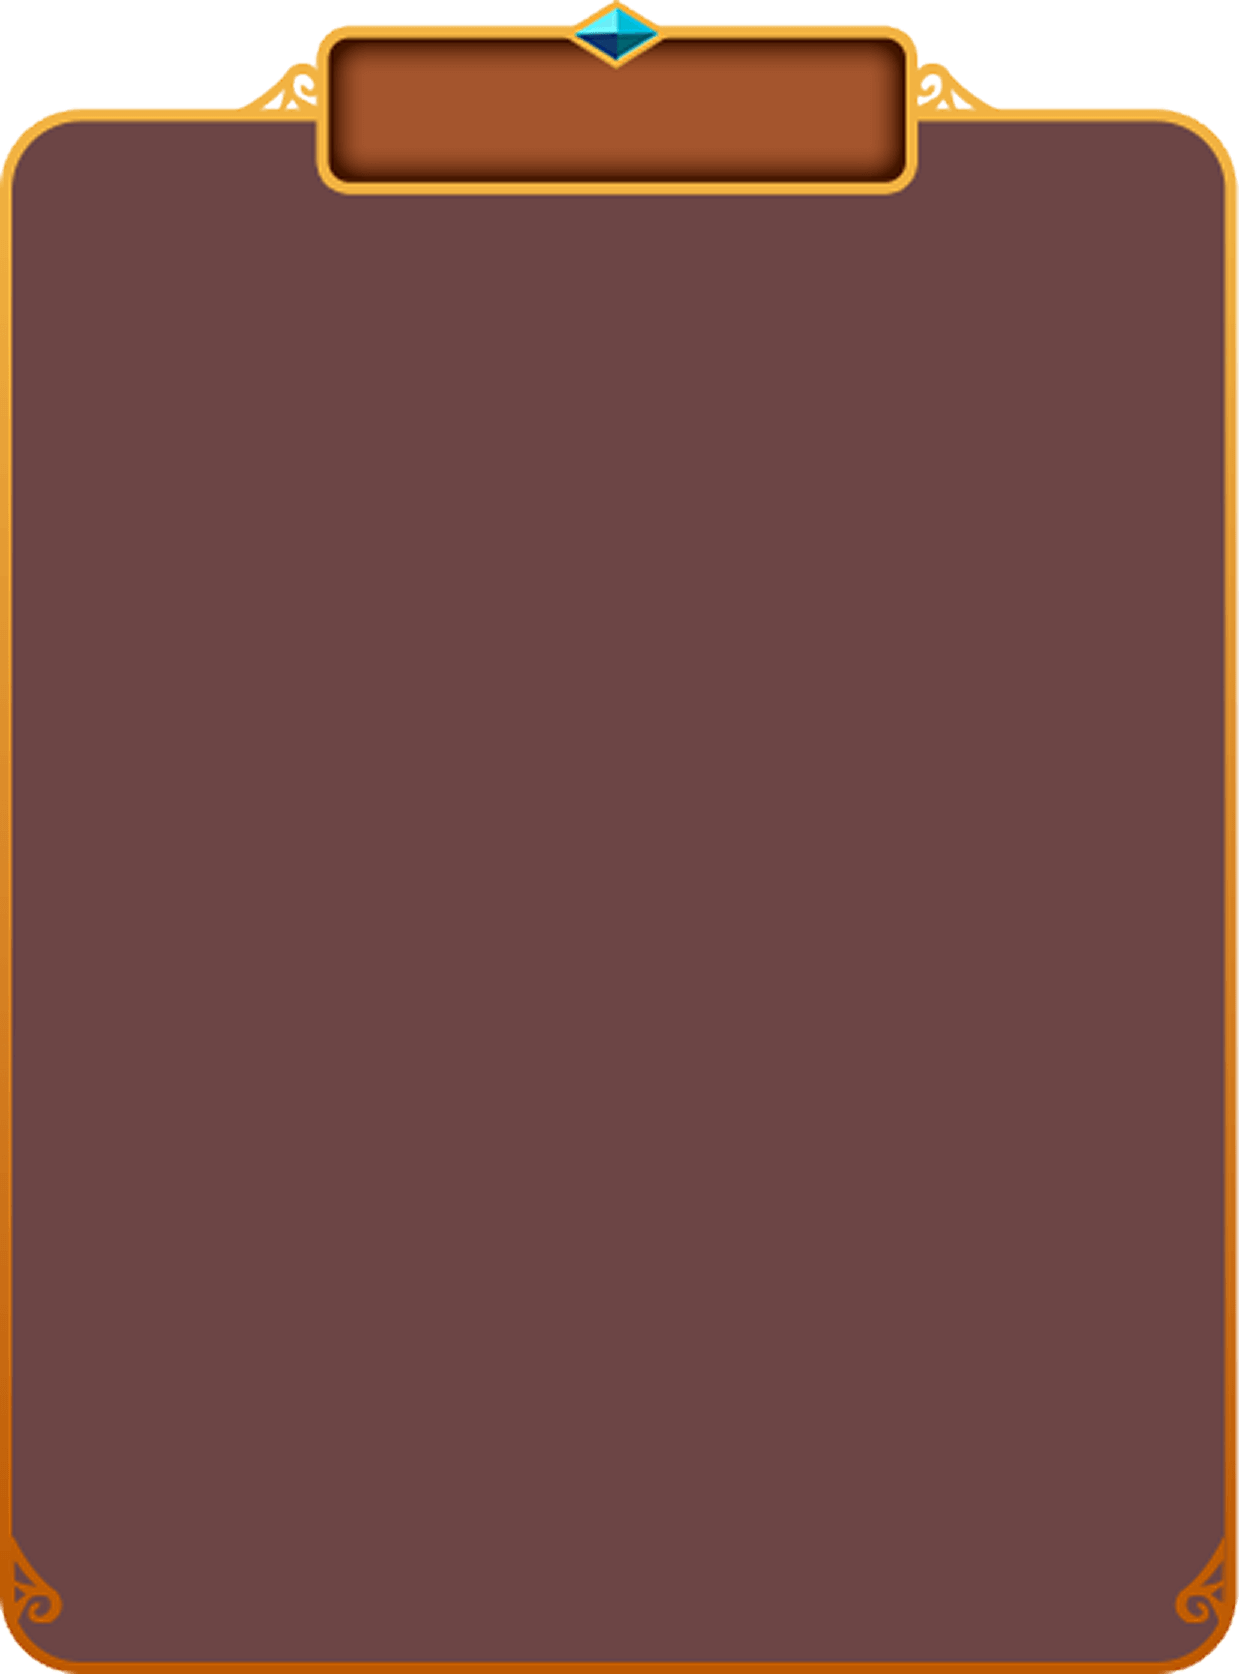
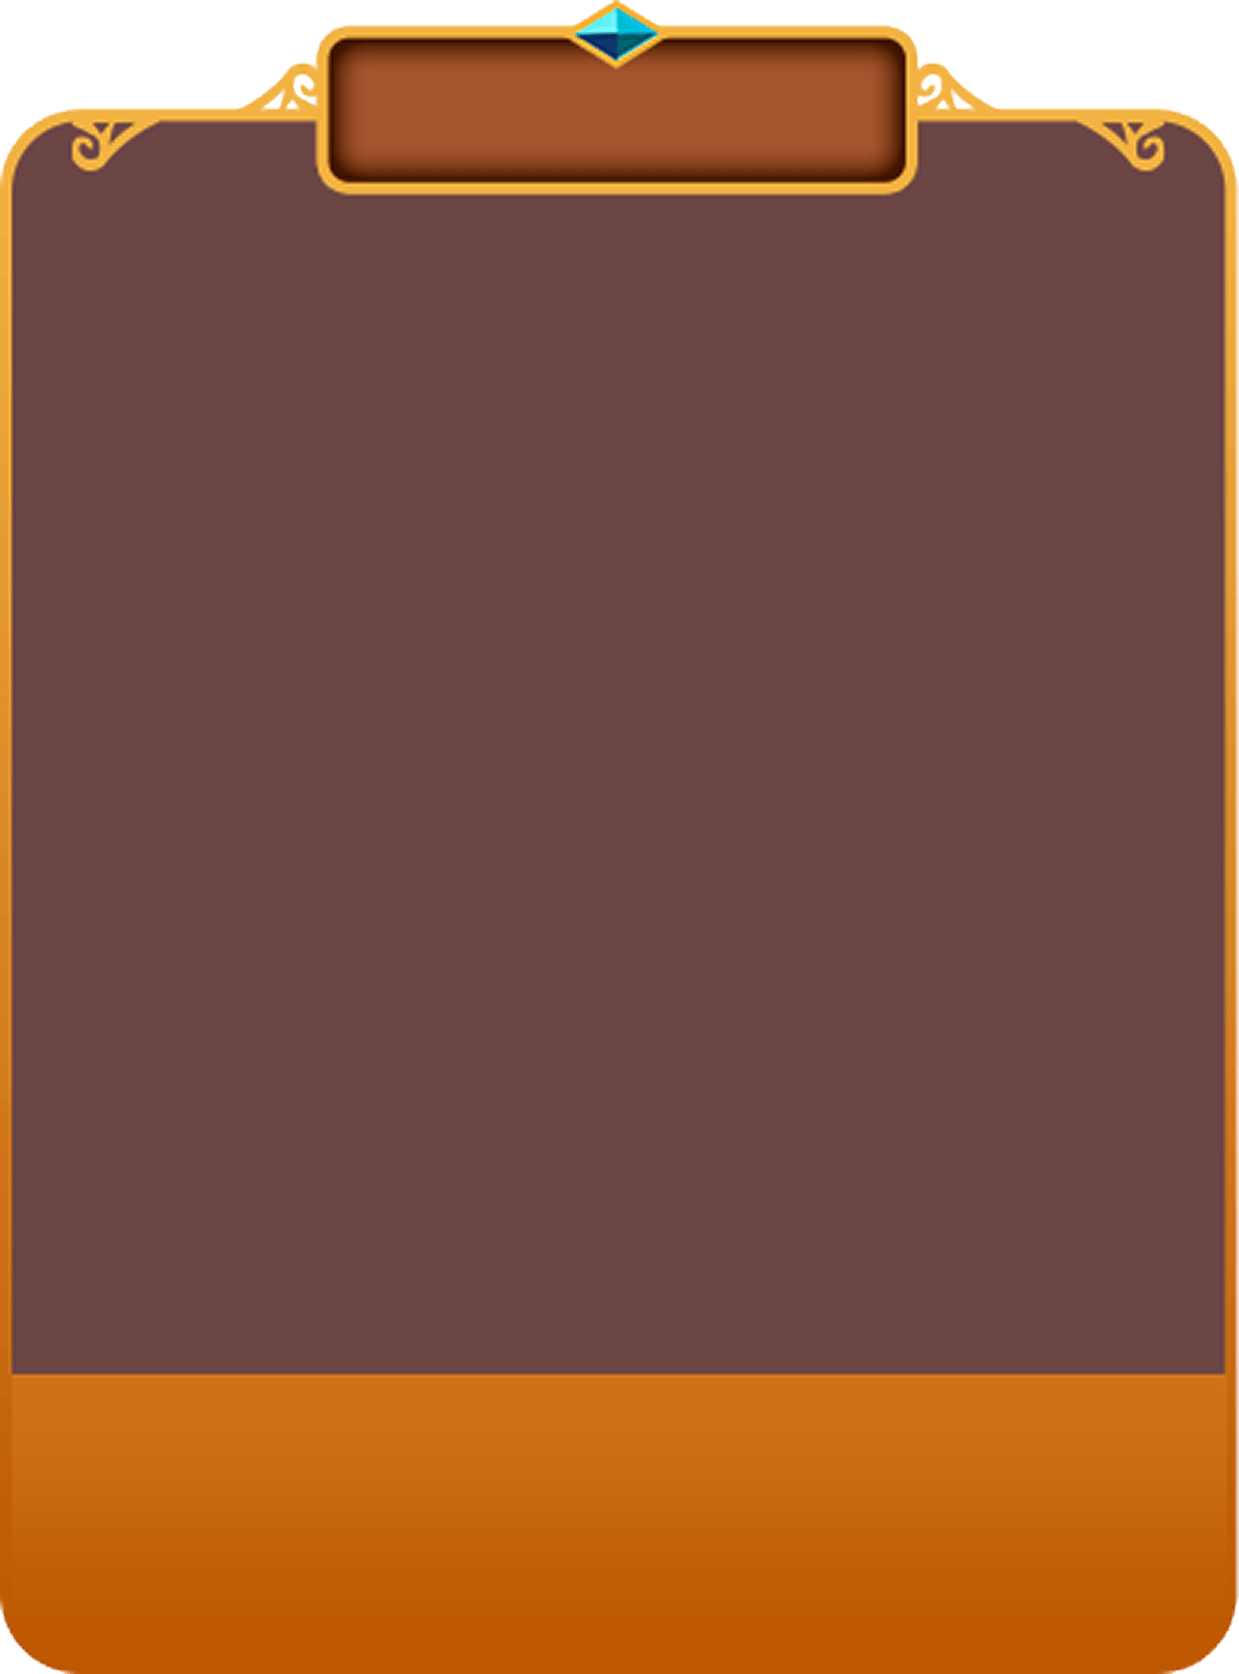
Update: update ui to Leaderboard.tsx

Changed region(s): [[0.0, 0.8076, 1.0, 0.994], [0.8588, 0.0621, 0.9508, 0.1243], [0.0613, 0.0621, 0.1227, 0.1243]]

diff --git a/src/pages/HomePage/Leaderboard.tsx b/src/pages/HomePage/Leaderboard.tsx
@@ -44,6 +44,34 @@ const Leaderboard: React.FC = () => {
       .map((item, idx) => ({ ...item, rank: idx + 1 }))
   }, [data, userCardsFormationScore, userInfo])
 
+  const renderCurrentUserRank = () => {
+    if (!userInfo) return null
+    const item = leaderboardData.find((item) => item.name === userInfo.email)
+    if (!item) return null
+    let rankContent: React.ReactNode
+    if (item.rank <= 3) {
+      rankContent = (
+        <div className={classNames(styles.rankContent, styles[`rank${item.rank}`])}></div>
+      )
+    } else {
+      rankContent = item.rank
+    }
+    return (
+      <div className={classNames(styles.leaderboardCurrentUserBar)}>
+        <div className={styles.leaderboardRankContainer}>{rankContent}</div>
+        <div className={styles.leaderboardInfo}>
+          <img alt={'user_avatar'} src={item.avatar} className={styles.leaderboardAvatar}></img>
+          <div className={styles.leaderboardUserInfo}>
+            <div className={styles.leaderboardUserName}>{item.name}</div>
+            <div className={styles.leaderboardUserScore}>
+              Score: <span className="text-[#B80001]">{item.score}</span>
+            </div>
+          </div>
+        </div>
+      </div>
+    )
+  }
+
   return (
     <div className="flex-1 flex flex-col items-center justify-center">
       <div className={styles.leaderboardWrapper}>
@@ -56,7 +84,6 @@ const Leaderboard: React.FC = () => {
         ) : (
           <div className={styles.leaderboardContent}>
             {leaderboardData?.map((item) => {
-              const rankClass = styles.leaderboardRankNormal
               let rankContent: React.ReactNode
               if (item.rank <= 3) {
                 rankContent = (
@@ -67,9 +94,7 @@ const Leaderboard: React.FC = () => {
               }
               return (
                 <div key={item.rank} className={styles.leaderboardItem}>
-                  <div className={`${styles.leaderboardRankContainer} ${rankClass} relative`}>
-                    {rankContent}
-                  </div>
+                  <div className={styles.leaderboardRankContainer}>{rankContent}</div>
                   <div className={styles.leaderboardInfo}>
                     <img
                       alt={'user_avatar'}
@@ -88,28 +113,7 @@ const Leaderboard: React.FC = () => {
             })}
           </div>
         )}
-        {/* 当前用户信息绝对定位覆盖底部 */}
-        {userInfo && (
-          <div className={styles.leaderboardCurrentUserBar}>
-            <img
-              alt={'user_avatar'}
-              src={userInfo.avatarUrl}
-              className={styles.leaderboardCurrentUserAvatar}
-            ></img>
-            <div className={styles.leaderboardCurrentUserInfo}>
-              <div className={styles.leaderboardCurrentUserName}>{userInfo.email}</div>
-              <div className={styles.leaderboardCurrentUserScore}>
-                Score: <span className="text-yellow-600 font-bold">{userCardsFormationScore}</span>
-              </div>
-            </div>
-            <div className={styles.leaderboardCurrentUserRank}>
-              Rank:
-              <span className="text-yellow-600 font-bold">
-                {leaderboardData.find((item) => item.name === userInfo.email)?.rank || '-'}
-              </span>
-            </div>
-          </div>
-        )}
+        {renderCurrentUserRank()}
       </div>
     </div>
   )

diff --git a/src/pages/HomePage/Leaderboard.module.css b/src/pages/HomePage/Leaderboard.module.css
@@ -1,7 +1,7 @@
 @import "tailwindcss";
 
 .leaderboardWrapper {
-    @apply w-[413px] h-[558px] flex flex-col items-center pt-20 px-[22px] pb-[22px] relative;
+    @apply w-[413px] h-[558px] flex flex-col items-center pt-20 px-[22px] pb-[102px] relative;
     @apply bg-[url('/src/assets/images/home_page/leaderboard_background.png')] bg-contain bg-top-left bg-no-repeat;
 
     .leaderboardTitle {
@@ -9,7 +9,7 @@
     }
 
     .leaderboardContent {
-        @apply flex-1 w-full flex flex-col items-stretch justify-start overflow-y-auto pb-16 gap-y-[14px];
+        @apply flex-1 w-full flex flex-col items-stretch justify-start overflow-y-auto pb-[14px] gap-y-[14px];
         scrollbar-width: none; /* Firefox */
         -ms-overflow-style: none; /* IE 10+ */
     }
@@ -18,6 +18,7 @@
         display: none; /* Chrome/Safari */
     }
 
+    .leaderboardCurrentUserBar,
     .leaderboardItem {
         @apply flex flex-row items-center rounded-2xl overflow-hidden h-20 shrink-0 pl-4.5 gap-x-10;
         @apply bg-[url('/src/assets/images/home_page/leaderboard_item_background.png')] bg-contain bg-top-left bg-no-repeat;
@@ -54,7 +55,7 @@
 
                 .leaderboardUserName {
                     @apply text-white pl-[46px] whitespace-nowrap overflow-hidden text-ellipsis;
-                    background: linear-gradient(90deg, #e6c9a0 0%, transparent 100%);
+                    background: linear-gradient(90deg, #888888 0%, transparent 100%);
                 }
 
                 .leaderboardUserScore {
@@ -65,36 +66,8 @@
     }
 
     .leaderboardCurrentUserBar {
-        @apply flex flex-row items-center justify-between px-6 py-3 border border-yellow-200 shadow rounded-xl;
-        @apply bg-yellow-50/90;
-        position: absolute;
-        left: 0;
-        bottom: 0;
-        width: 100%;
-        min-height: 4.5rem;
-        z-index: 10;
-        box-shadow: 0 4px 24px 0 rgba(251, 191, 36, 0.12);
-        /* 更明显的浮层感和底色 */
-
-        .leaderboardCurrentUserAvatar {
-            @apply shrink-0 w-12 h-12 rounded-full bg-gray-200 flex items-center justify-center mr-4 overflow-hidden;
-        }
-
-        .leaderboardCurrentUserInfo {
-            @apply flex flex-col justify-center flex-1;
-        }
-
-        .leaderboardCurrentUserName {
-            @apply font-semibold text-base text-gray-800 leading-tight;
-        }
-
-        .leaderboardCurrentUserScore {
-            @apply text-sm text-gray-500 mt-1 leading-tight;
-        }
-
-        .leaderboardCurrentUserRank {
-            @apply text-lg font-bold text-yellow-700 ml-6;
-        }
+        @apply flex flex-row items-center justify-between w-[368px] h-20 z-[1] absolute bottom-2.5;
+        @apply bg-[url('/src/assets/images/home_page/leaderboard_current_user_background.png')] bg-contain bg-top-left bg-no-repeat;
     }
 
     .leaderboardLoading {
